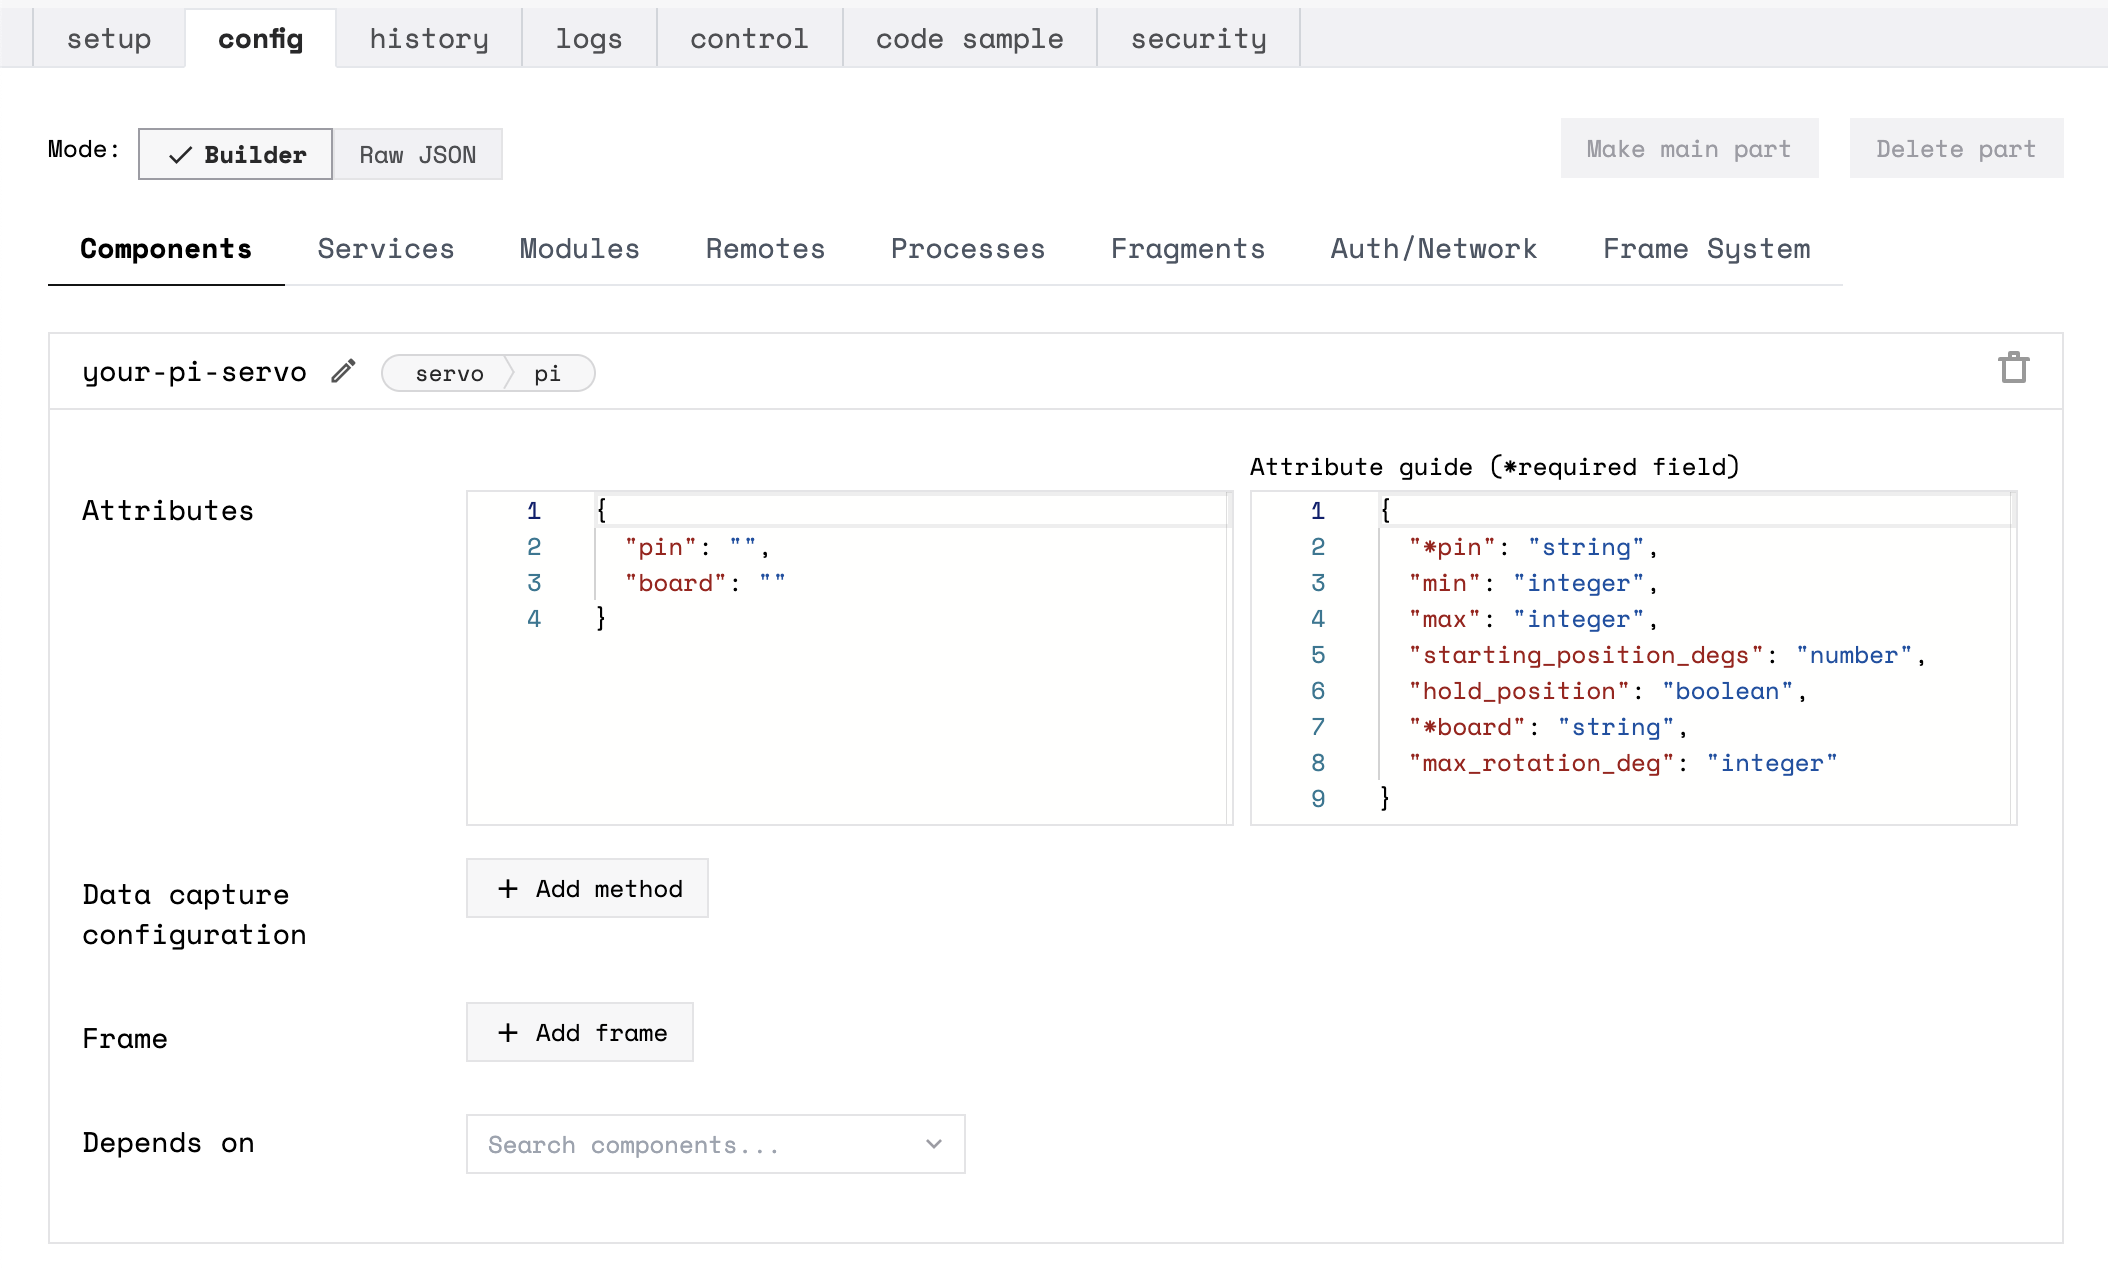
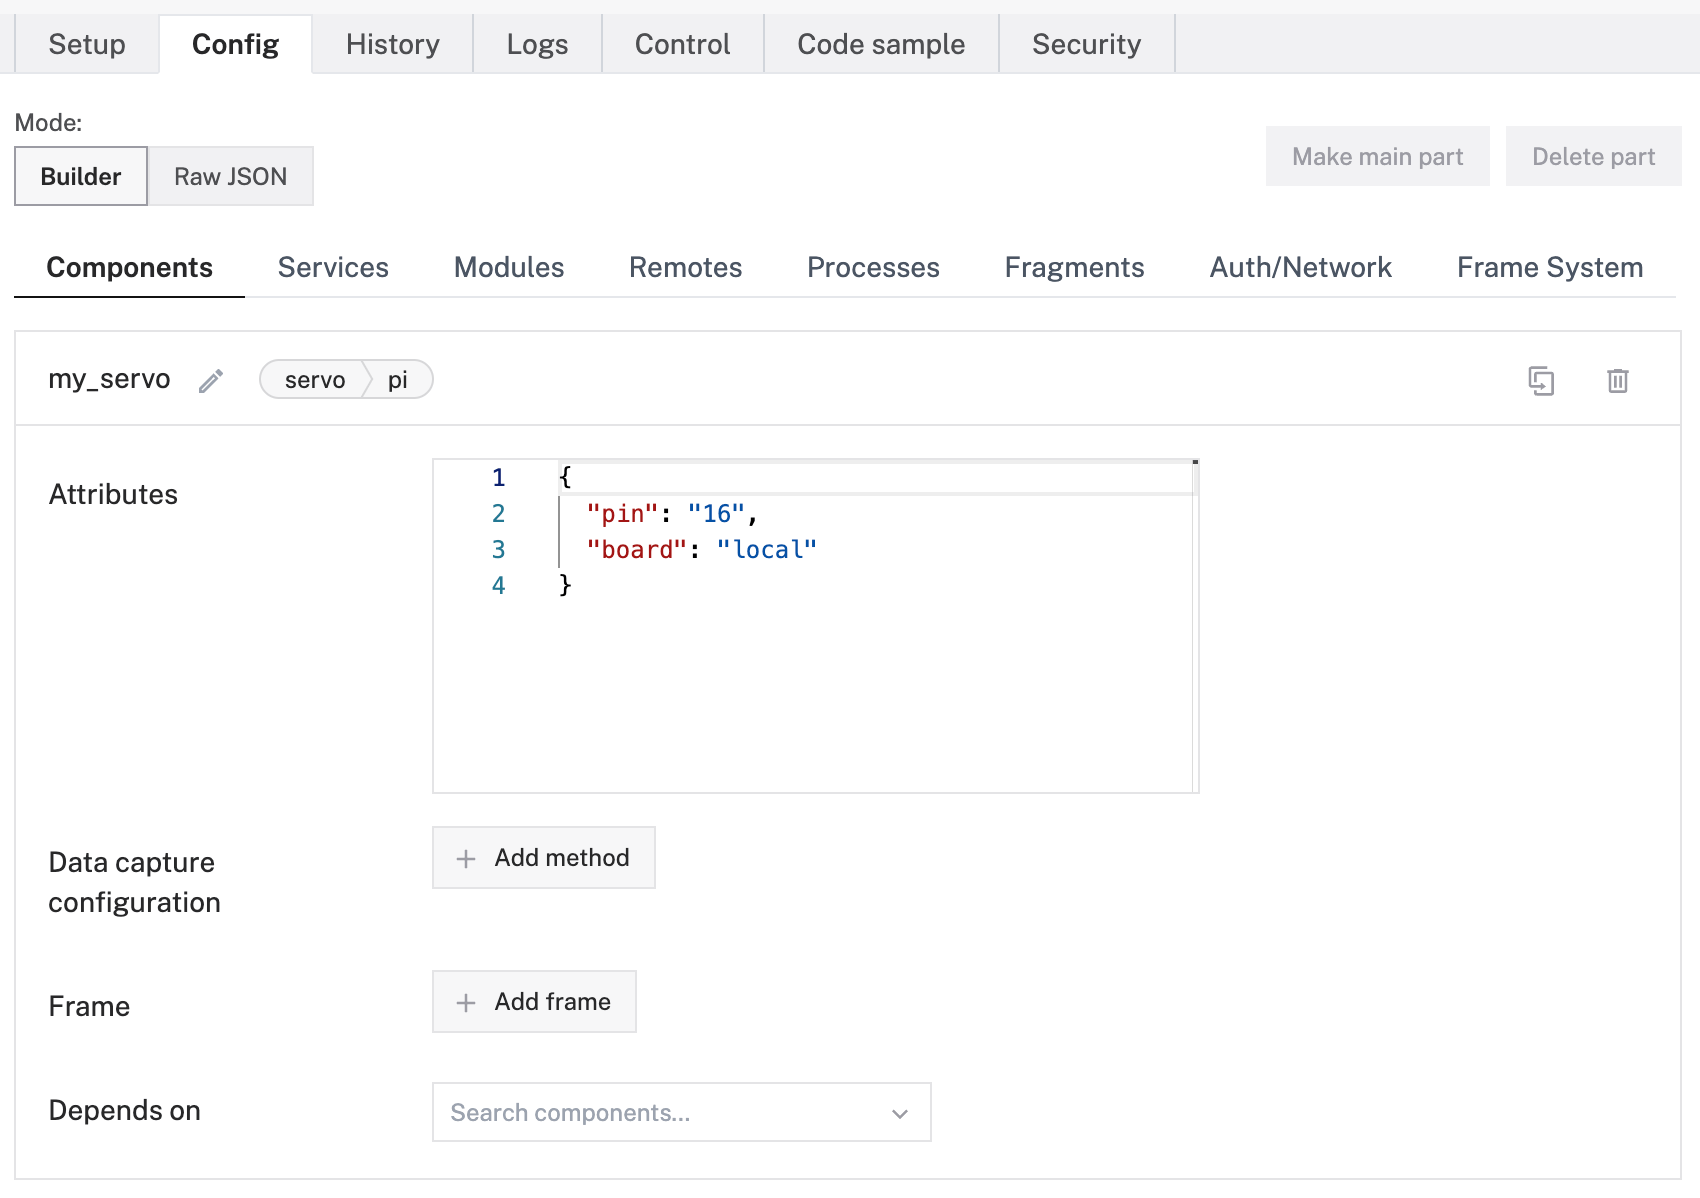
update servo

diff --git a/docs/components/servo/gpio.md b/docs/components/servo/gpio.md
@@ -21,25 +21,63 @@ Enter a name for your servo and click **Create**.
 
 ![An example configuration for a gpio servo in the Viam app Config Builder.](/components/servo/gpio-servo-ui-config.png)
 
-Edit and fill in the attributes as applicable.
+Copy and paste the following attribute template into your servo's **Attributes** box.
+Then remove and fill in the attributes as applicable to your servo, according to the table below.
+
+{{< tabs >}}
+{{% tab name="Attributes template" %}}
+
+```json {class="line-numbers linkable-line-numbers"}
+{
+  "pin": "<your-pin-number>",
+  "board": "<your-board-name>",
+  "min_angle_deg": <float>,
+  "max_angle_deg": <float>,
+  "starting_position_deg": <float>,
+  "frequency_hz": <int>,
+  "pwm_resolution": <int>,
+  "min_width_us": <int>,
+  "max_width_us": <int>
+}
+```
+
+{{% /tab %}}
+{{% tab name="Attributes example" %}}
+
+```json {class="line-numbers linkable-line-numbers"}
+{
+  "pin": "16",
+  "board": "local"
+}
+```
+
+{{% /tab %}}
+{{< /tabs >}}
 
 {{% /tab %}}
 {{% tab name="JSON Template" %}}
 
 ```json {class="line-numbers linkable-line-numbers"}
 {
-    "components": [
-        {
-            "name": "<your-servo-name>",
-            "type": "servo",
-            "model": "gpio",
-            "attributes": {
-                "pin": "<your-pin-number>",
-                "board": "<your-board-name>"
-            }
-        },
-        ... // insert your board component config
+  "components": [
+    {
+      "name": "<your-servo-name>",
+      "model": "gpio",
+      "type": "servo",
+      "namespace": "rdk",
+      "attributes": {
+        "pin": "<your-pin-number>",
+        "board": "<your-board-name>",
+        "min_angle_deg": <float>,
+        "max_angle_deg": <float>,
+        "starting_position_deg": <float>,
+        "frequency_hz": <int>,
+        "pwm_resolution": <int>,
+        "min_width_us": <int>,
+        "max_width_us": <int>
+      }
     }
+  }
 ```
 
 {{% /tab %}}
@@ -50,13 +88,15 @@ Edit and fill in the attributes as applicable.
   "components": [
     {
       "name": "local",
+      "model": "jetson",
       "type": "board",
-      "model": "jetson"
+      "namespace": "rdk"
     },
     {
       "name": "my_servo",
-      "type": "servo",
       "model": "gpio",
+      "type": "servo",
+      "namespace": "rdk",
       "attributes": {
         "pin": "16",
         "board": "local"

diff --git a/docs/components/servo/pi.md b/docs/components/servo/pi.md
@@ -27,25 +27,59 @@ Enter a name for your servo and click **Create**.
 
 {{< imgproc src="/components/servo/pi-servo-ui-config.png" alt="An example configuration for a pi servo in the Viam app Config Builder." resize="600x" >}}
 
-Edit and fill in the attributes as applicable.
+Copy and paste the following attribute template into your servo's **Attributes** box.
+Then remove and fill in the attributes as applicable to your servo, according to the table below.
+
+{{< tabs >}}
+{{% tab name="Attributes template" %}}
+
+```json {class="line-numbers linkable-line-numbers"}
+{
+  "pin": "<your-pin-number>",
+  "board": "<your-board-name>",
+  "min": <float>,
+  "max": <float>,
+  "starting_position_deg": <float>,
+  "hold_position": <int>,
+  "max_rotation_deg": <int>
+}
+```
+
+{{% /tab %}}
+{{% tab name="Attributes example" %}}
+
+```json {class="line-numbers linkable-line-numbers"}
+{
+  "pin": "16",
+  "board": "local"
+}
+```
+
+{{% /tab %}}
+{{< /tabs >}}
 
 {{% /tab %}}
 {{% tab name="JSON Template" %}}
 
 ```json {class="line-numbers linkable-line-numbers"}
 {
-    "components": [
-        {
-            "name": "<your-servo-name>",
-            "type": "servo",
-            "model": "pi",
-            "attributes": {
-                "pin": "<your-pin-number>",
-                "board": "<your-board-name>"
-            }
-        },
-        ... // insert your board component config
+  "components": [
+    {
+      "name": "<your-servo-name>",
+      "model": "pi",
+      "type": "servo",
+      "namespace": "rdk",
+      "attributes": {
+        "pin": "<your-pin-number>",
+        "board": "<your-board-name>",
+        "min": <float>,
+        "max": <float>,
+        "starting_position_deg": <float>,
+        "hold_position": <int>,
+        "max_rotation_deg": <int>
+      }
     }
+  }
 ```
 
 {{% /tab %}}
@@ -56,13 +90,15 @@ Edit and fill in the attributes as applicable.
   "components": [
     {
       "name": "local",
+      "model": "pi",
       "type": "board",
-      "model": "pi"
+      "namespace": "rdk"
     },
     {
       "name": "my_servo",
-      "type": "servo",
       "model": "pi",
+      "type": "servo",
+      "namespace": "rdk",
       "attributes": {
         "pin": "16",
         "board": "local"

diff --git a/docs/components/servo/fake.md b/docs/components/servo/fake.md
@@ -29,8 +29,9 @@ Enter a name for your servo and click **Create**.
 ```json {class="line-numbers linkable-line-numbers"}
 {
   "name": "<your-fake-servo-name>",
-  "type": "servo",
   "model": "fake",
+  "type": "servo",
+  "namespace": "rdk",
   "attributes": {}
 }
 ```
